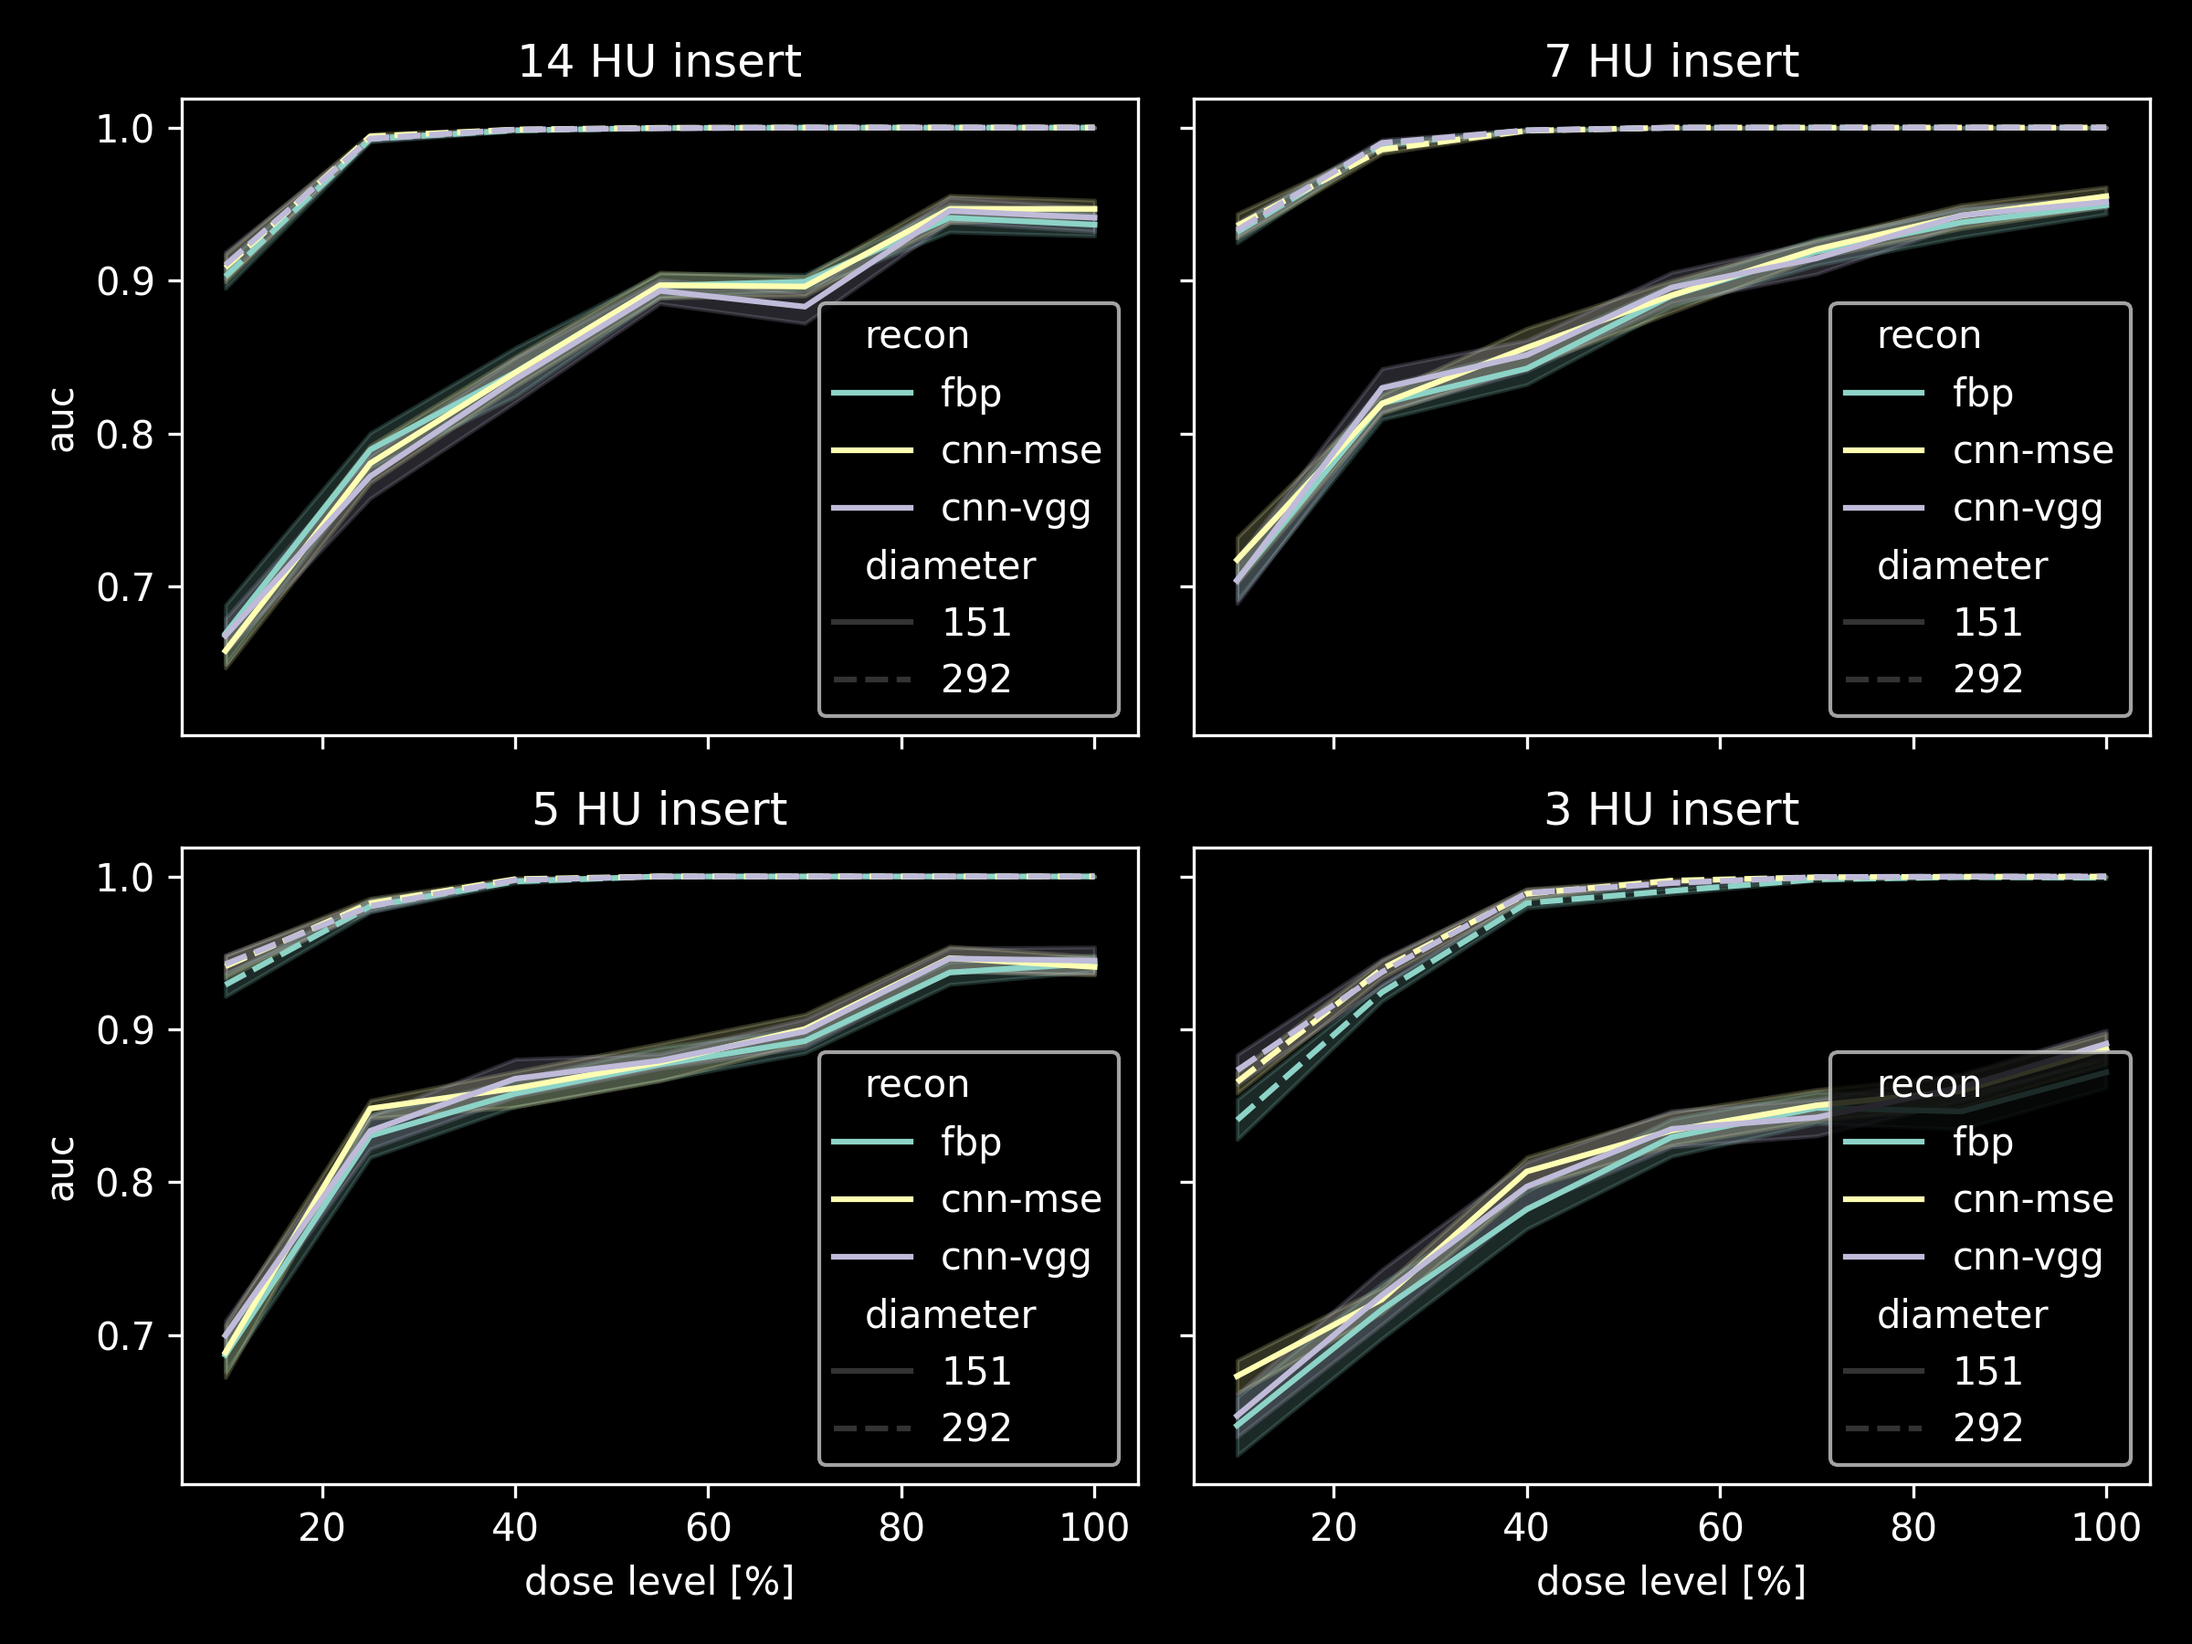
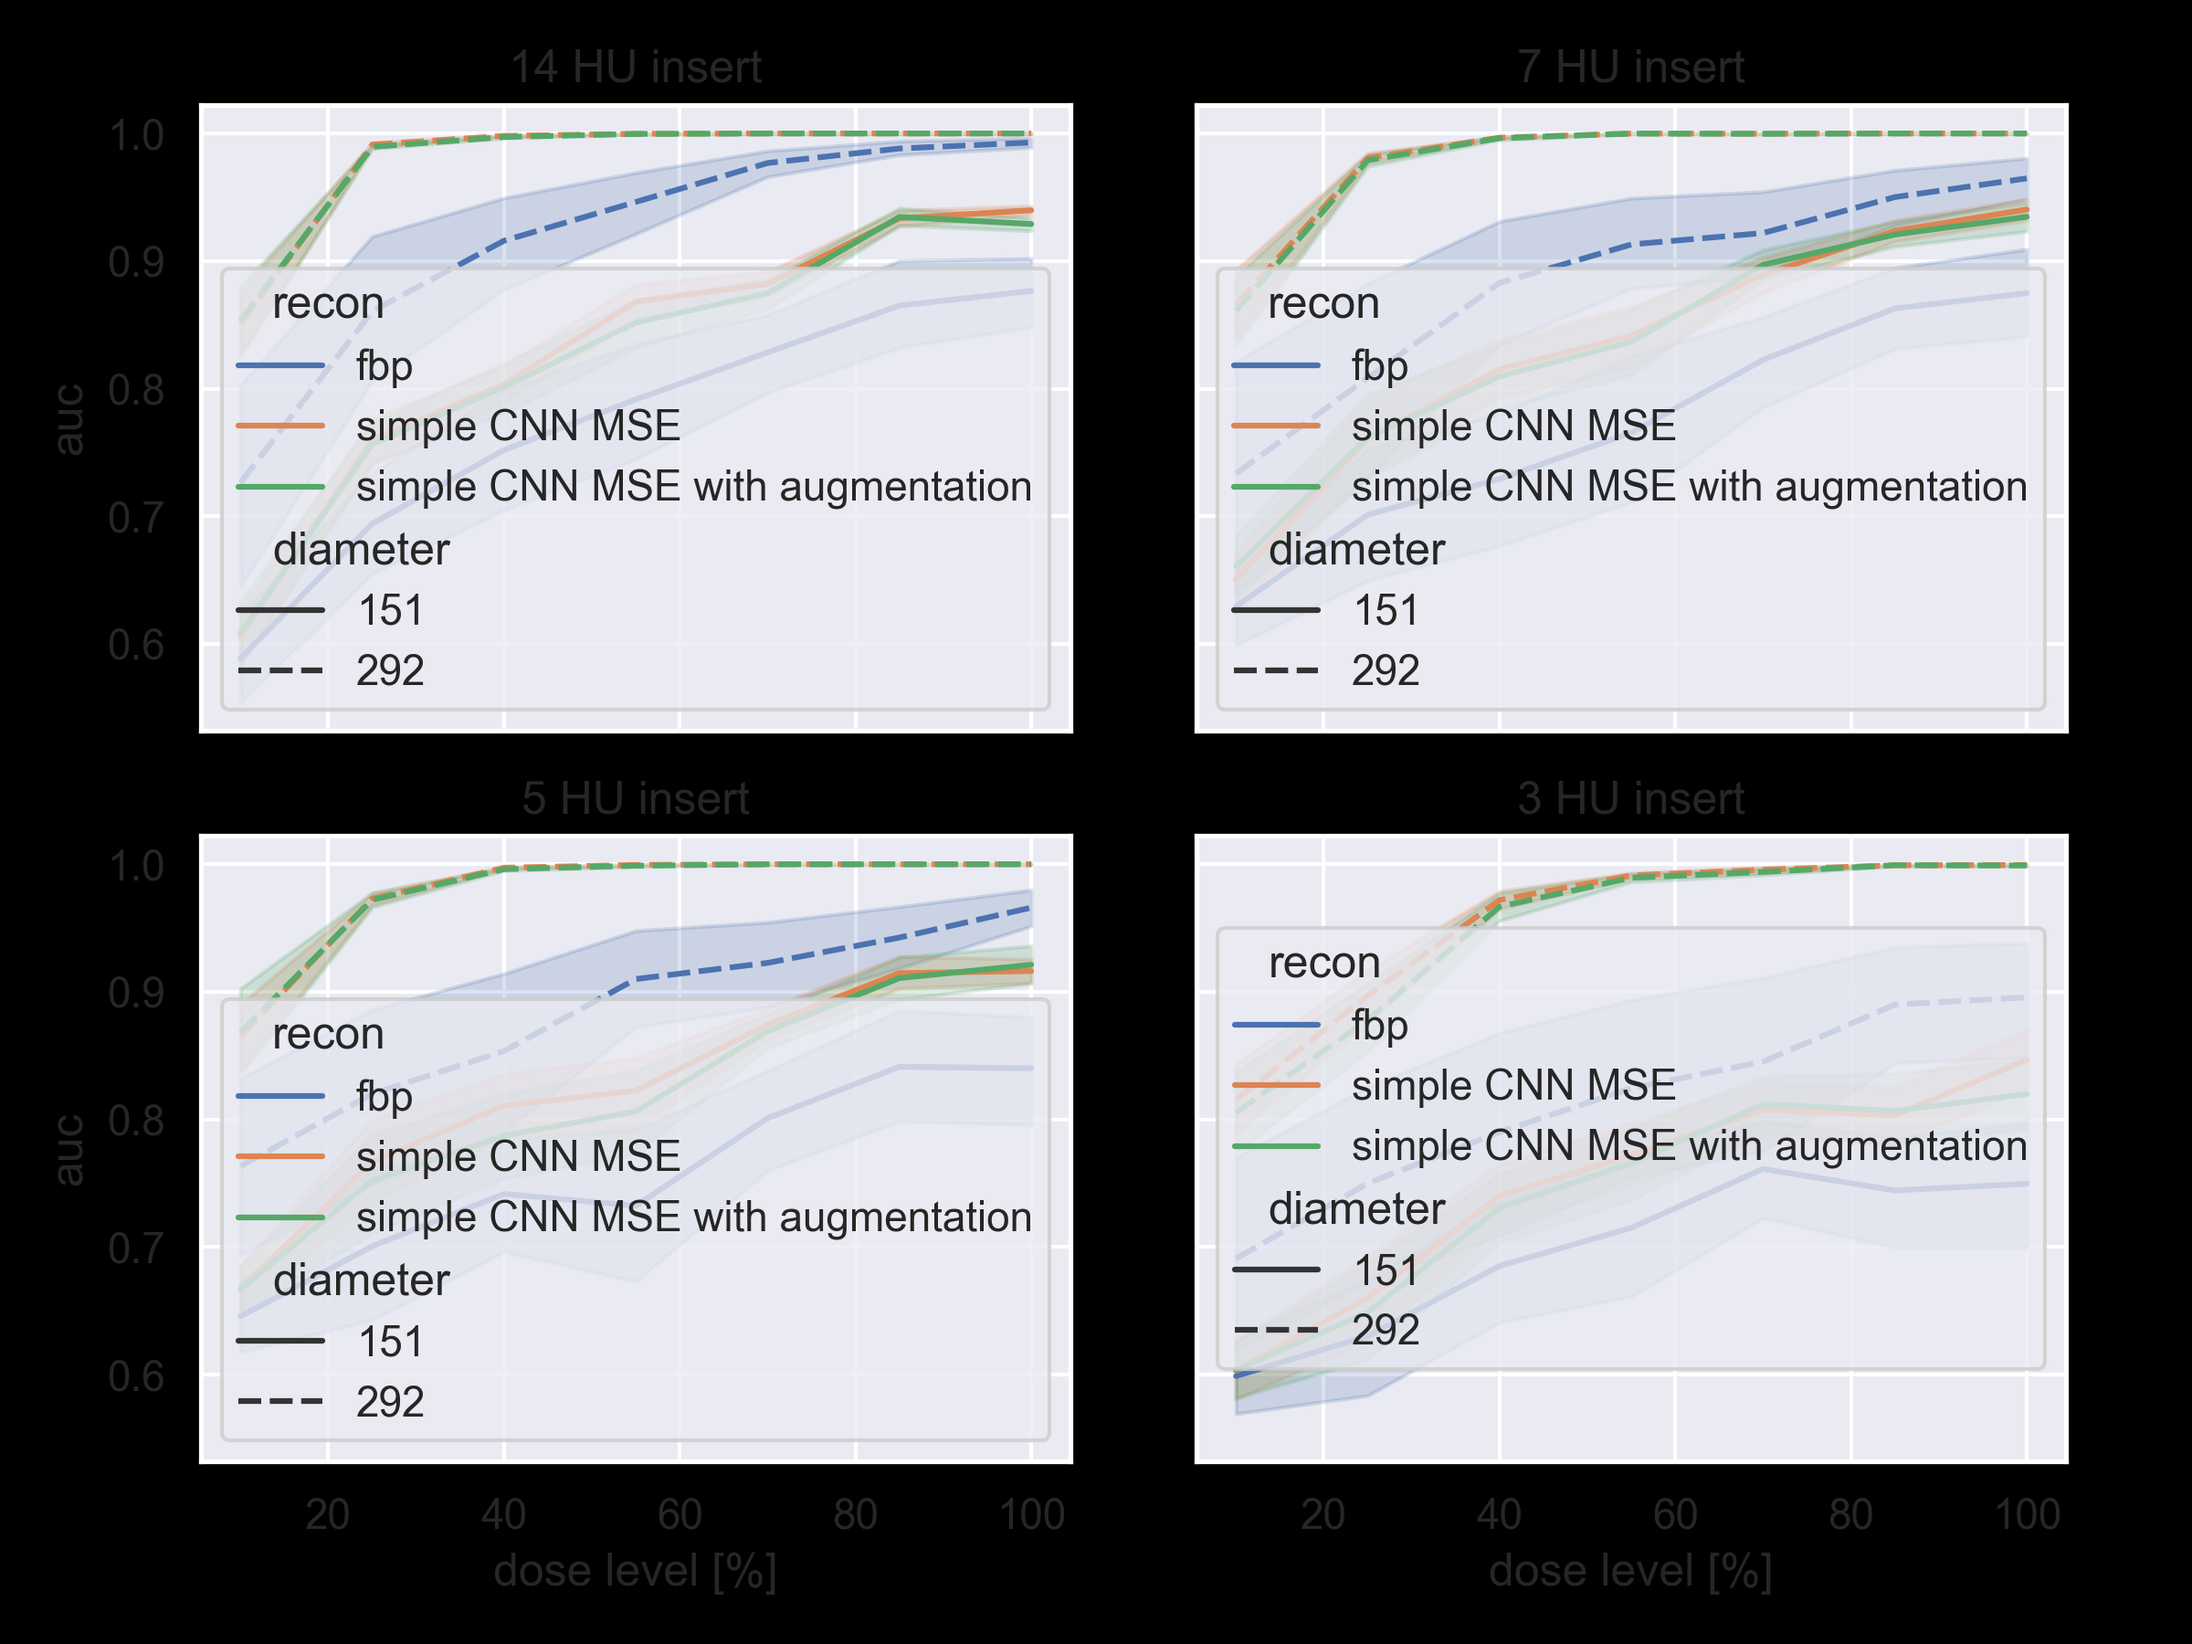
with data aug results

diff --git a/plot_diameter_results.py b/plot_diameter_results.py
@@ -10,9 +10,10 @@ res = res[~res.duplicated()]
 #%%
 res.rename(columns={'dose_level': 'dose level [%]'}, inplace=True)
 res = res[res.diameter != 200]
-f, ax = plt.subplots(figsize=(4.5,3.5))
-
-sns.lineplot(ax=ax, data=res[(res['dose level [%]']==100) | (res['dose level [%]'] ==25)], x='diameter', y='auc', hue='recon', style='dose level [%]')
+f, axs = plt.subplots(1,2)
+data_df = res[(res['dose level [%]']==100) | (res['dose level [%]'] ==25)]
+sns.lineplot(ax=axs[0], data=data_df[res['observer'] != 'NPW 2D'], x='diameter', y='auc', hue='recon', style='dose level [%]')
+sns.lineplot(ax=axs[1], data=data_df[res['observer'] == 'NPW 2D'], x='diameter', y='auc', hue='recon', style='dose level [%]')
 f.tight_layout()
 f.savefig('auc_v_diameter.png', dpi=600, facecolor='white')
 # %%
@@ -45,7 +46,7 @@ f.tight_layout()
 f.savefig('auc_v_dose_with_comp.png', dpi=600, facecolor='white')
 # %%
 f, axs = plt.subplots(1, 2, figsize = (8,4))
-sns.lineplot(ax=axs[0], data=res[(res['dose level [%]']==25)], x='diameter', y='auc', hue='recon', style='dose level [%]') # | (res.diameter == 292) | (res.diameter == 350)
+sns.lineplot(ax=axs[0], data=res[(res['dose level [%]']==25)], x='diameter', y='auc', hue='recon', style='observer') # | (res.diameter == 292) | (res.diameter == 350)
 temp = res[(res.diameter != 200)]
 
 # dose_lvl = temp[temp.recon == 'cnn-mse']['dose level [%]'].to_numpy()
@@ -59,7 +60,10 @@ sns.lineplot(ax=axs[1], data=delta_df, x='diameter', y = '$\Delta auc$', hue='re
 axs[1].hlines(y=0, xmin=100, xmax=350, color='black', linestyle='--')
 axs[1].set_title('Task advantage following denoising')
 f.tight_layout()
-f.savefig('auc_v_diameter.png', dpi=600, facecolor='white')
+f.savefig('auc_v_diameter_w_comp.png', dpi=600, facecolor='white')
+axs[0].legend(loc='upper center', bbox_to_anchor=(1.05, 1.45),
+          ncol=2, fancybox=True, shadow=False)
+axs[1].get_legend().remove()
 # %%
 HUs = res.insert_HU.unique()
 f, axs = plt.subplots(2, 2, sharex=True,sharey=True, tight_layout=True, figsize=(8, 6))

diff --git a/measure_LCD_diameter_dependence.m b/measure_LCD_diameter_dependence.m
@@ -15,7 +15,7 @@ observers = {LG_CHO_2D(),...
 
 %% Select datasets
 base_directory = 'data';
-base_directory = 'D:\Dev\Datasets\CCT189_CT_sims'
+base_directory = 'H:\Dev\Datasets\CCT189_CT_sims'
 series_1.name = 'fbp';
 series_1.dir = fullfile(base_directory, 'CCT189_peds');
 
